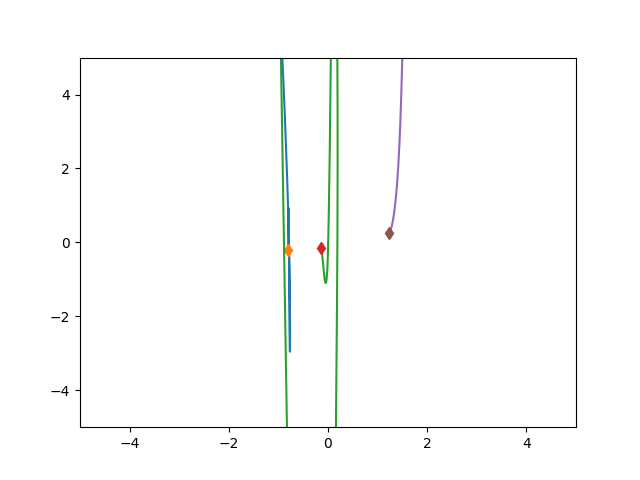
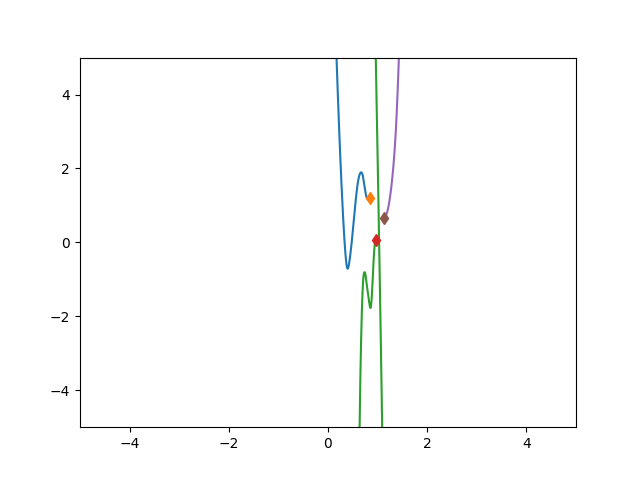
created new physics for user study

Changed region(s): [[0.5, 0.125, 0.6562, 0.875], [0.4375, 0.125, 0.4688, 0.875]]

diff --git a/new_synthetic_sim.py b/new_synthetic_sim.py
@@ -19,7 +19,7 @@ class DifferentParticlesSim(object):
         self._max_F = 0.1 / self._delta_T
 
     def _randomize_colors(self):
-        num_colors = 2
+        num_colors = 3
         arrs = np.eye(num_colors)
         cols = np.random.choice(num_colors,self.n_balls)
         self.colors = arrs[cols]
@@ -146,15 +146,6 @@ class DifferentParticlesSim(object):
 
         return F
 
-    # Constant force down if above center or up if below center
-    def _get_centering_gravity_force(self, loc_next):
-        gravity = np.array([[0],[-self.interaction_strength]])
-
-        F = np.repeat(gravity, self.n_balls, axis=1)
-        F = np.where(loc_next[1,:] < 0, -F, F)
-
-        return F
-
     # Compute all the forces on objects
     def _get_forces(self, loc_next):        
         F = (self._get_attractive_force(loc_next)+
@@ -172,11 +163,52 @@ class DifferentParticlesSim(object):
 
         return F
 
+    # these are the three forces for our user study!
+    def _get_spring_to_center_force(self, loc_next):
+        F = np.where(self.colors[:,0] == 1, - self.interaction_strength * loc_next, 0)
+
+        return F
+
+    def _get_gravity_to_other_color_force(self, loc_next):
+        n = self.n_balls
+        outer = np.outer(self.colors.transpose(),self.colors.transpose())
+        attract = np.zeros((self.n_balls,self.n_balls))
+        attract = np.where(self.colors[:,1] == 1, -self.colors[:,[2]], 0).T
+
+        edges = np.ones((self.n_balls,self.n_balls))
+        l2_dist_power3 = np.power(self._l2(loc_next.transpose(), loc_next.transpose()), 1)
+        np.fill_diagonal(l2_dist_power3, 1)
+
+        forces_size = self.interaction_strength * edges / l2_dist_power3 * attract
+
+        F = (forces_size.reshape(1, n, n) *
+                 np.concatenate((
+                     np.subtract.outer(loc_next[0, :],
+                                       loc_next[0, :]).reshape(1, n, n),
+                     np.subtract.outer(loc_next[1, :],
+                                       loc_next[1, :]).reshape(1, n, n)))).sum(
+                axis=-1)
+
+        return F
+
+    # Constant force down if above center or up if below center
+    def _get_centering_gravity_force(self, loc_next):
+        gravity = np.array([[0],[-self.interaction_strength]])
+
+        F = np.repeat(gravity, self.n_balls, axis=1)
+        F = np.where(loc_next[1,:] < 0, -F, F)
+        F = np.where(self.colors[:,2] == 1, F, 0)
+
+        return F
+
+    def _get_user_study_forces(self, loc_next):
+        return self._get_spring_to_center_force(loc_next) + self._get_gravity_to_other_color_force(loc_next) + self._get_centering_gravity_force(loc_next)
+
     # Compute the velocities on all the objects
     def _get_velocities(self, loc_next, vel_next):
         # Pick one of these forces
         # F = self._get_forces(loc_next)
-        F = self._get_simple_gravity_forces(loc_next)
+        F = self._get_user_study_forces(loc_next)
         
         v = vel_next + self._delta_T * F
 
@@ -230,7 +262,7 @@ if __name__ == '__main__':
     sim = DifferentParticlesSim()
 
     t = time.time()
-    loc, vel, colors = sim.sample_trajectory(T=5000, sample_freq=100)
+    loc, vel, colors = sim.sample_trajectory(T=10000, sample_freq=100)
 
     print(colors)
     print("Simulation time: {}".format(time.time() - t))
@@ -249,11 +281,11 @@ if __name__ == '__main__':
     axes.set_xlim([-5., 5.])
     axes.set_ylim([-5., 5.])
     
-    colors = ['r','b','g','c','m']
+    colors_indexed = np.where(colors[:,0],'r',np.where(colors[:,1],'g','b'))
     ims = []
 
     for i in range(loc.shape[0]):
-        args = [[loc[i, 0, j], loc[i, 1, j], colors[j]] for j in range(loc.shape[-1])]
+        args = [[loc[i, 0, j], loc[i, 1, j], colors_indexed[j]] for j in range(loc.shape[-1])]
         flat = [val for sublist in args for val in sublist]
         im = plt.plot(*flat, marker='o')
         ims.append(im)

diff --git a/test_net.py b/test_net.py
@@ -32,8 +32,8 @@ numColors = 2
 PairNet = NN([8+2*numColors, 14, 14, 2])
 SoloNet = NN([4+numColors, 8, 8, 2])
 
-SoloNet.loadFromFile('solo.npz')
-PairNet.loadFromFile('pair.npz')
+SoloNet.loadFromFile('weirdlyBetterXorSolo.npz')
+PairNet.loadFromFile('weirdlyBetterXorPair.npz')
 
 SNP = SoloNet.placeholdered()
 PNP = PairNet.placeholdered()
@@ -59,7 +59,6 @@ for i in range(1, T):
         NNloc[counter, :, :], NNvel[counter, :, :] = loc_next, vel_next
         counter += 1
         print(counter, '/', T/sample_freq, 'points of data')
-        print(accel)
 
     # Find acceleration with our shiny nets
     accel = PredictedAccelerationsPlaceholder(ObjectData, PNP, SNP)
